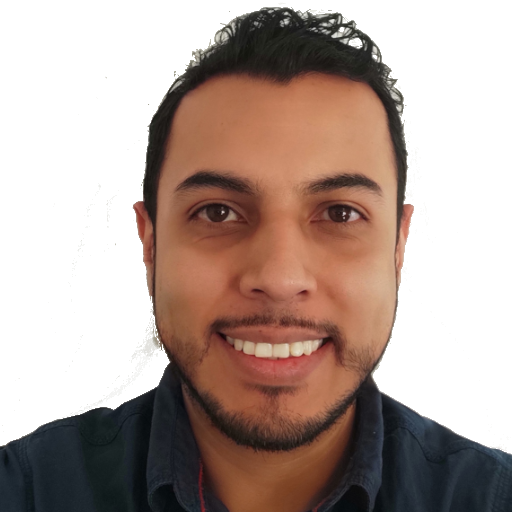
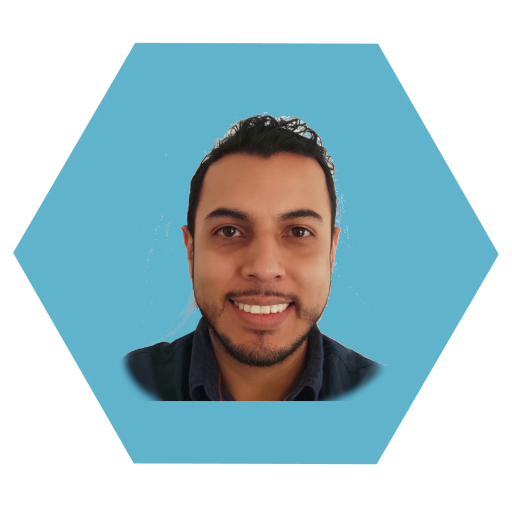
hover scale transitions

diff --git a/styles.css b/styles.css
@@ -82,6 +82,9 @@ button {
 button img {
     width: 2rem; /* Adjust the image size as needed */
 }
+.transition{
+    transition: transform 0.3s;
+}
 
 @media (orientation: landscape) {
     .logo{
@@ -114,10 +117,14 @@ button img {
     }
     .picturecontainer{
         justify-content: flex-end;
-    } 
+        transition: transform 0.3s;
+    }
+    .picturecontainer:hover{
+        transform: scale(1.2);
+    }
     .mypicture{
-        width: 10rem;
-        height: 10rem;
+        width: 12rem;
+        height: 12rem;
     }
     .victorcontainer{
         width: 50vw;
@@ -129,6 +136,10 @@ button img {
         padding: 2rem;
         background-color: #fff;
         box-shadow: 5px 5px 10px rgba(0, 0, 0, 0.5);
+        transition: transform 0.3s;
+    }
+    .victorcontainer:hover{
+        transform: scale(1.1);
     }
     .containertitle{
         width: 50vw;
@@ -169,7 +180,11 @@ button img {
         padding: 2rem;
         background-color: white;
         margin-top: 4vh;
-        box-shadow: 5px 5px 10px rgba(0, 0, 0, 0.5); 
+        box-shadow: 5px 5px 10px rgba(0, 0, 0, 0.5);
+        transition: transform 0.3s;
+    }
+    .skillcontainer:hover{
+        transform: scale(1.1);
     }
     .skilldescriptioncontainer{
         display: flex;
@@ -252,8 +267,8 @@ button img {
         justify-content: flex-end;
     }
     .mypicture{
-        width: 6rem;
-        height: 6rem;
+        width: 8rem;
+        height: 8rem;
     }
     .titletext{
         font-size: 2.5vh;

diff --git a/index.html b/index.html
@@ -25,6 +25,7 @@
     <div class="background">
 
         <div class="left">
+            
             <div class="hellocontainer">
                 <div class="textfont tf1">  Hola, 
                     <br> soy <span class="bold-text">Victor</span>
